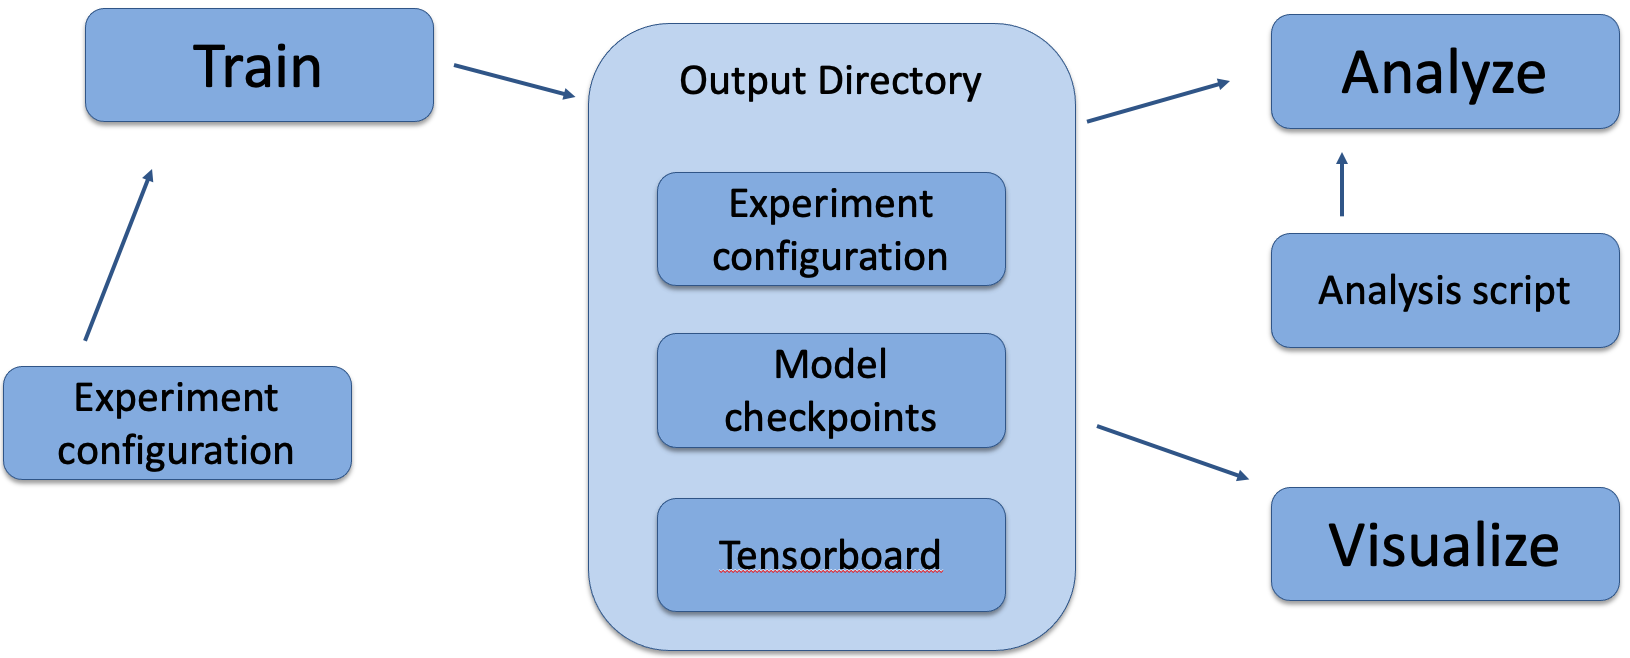
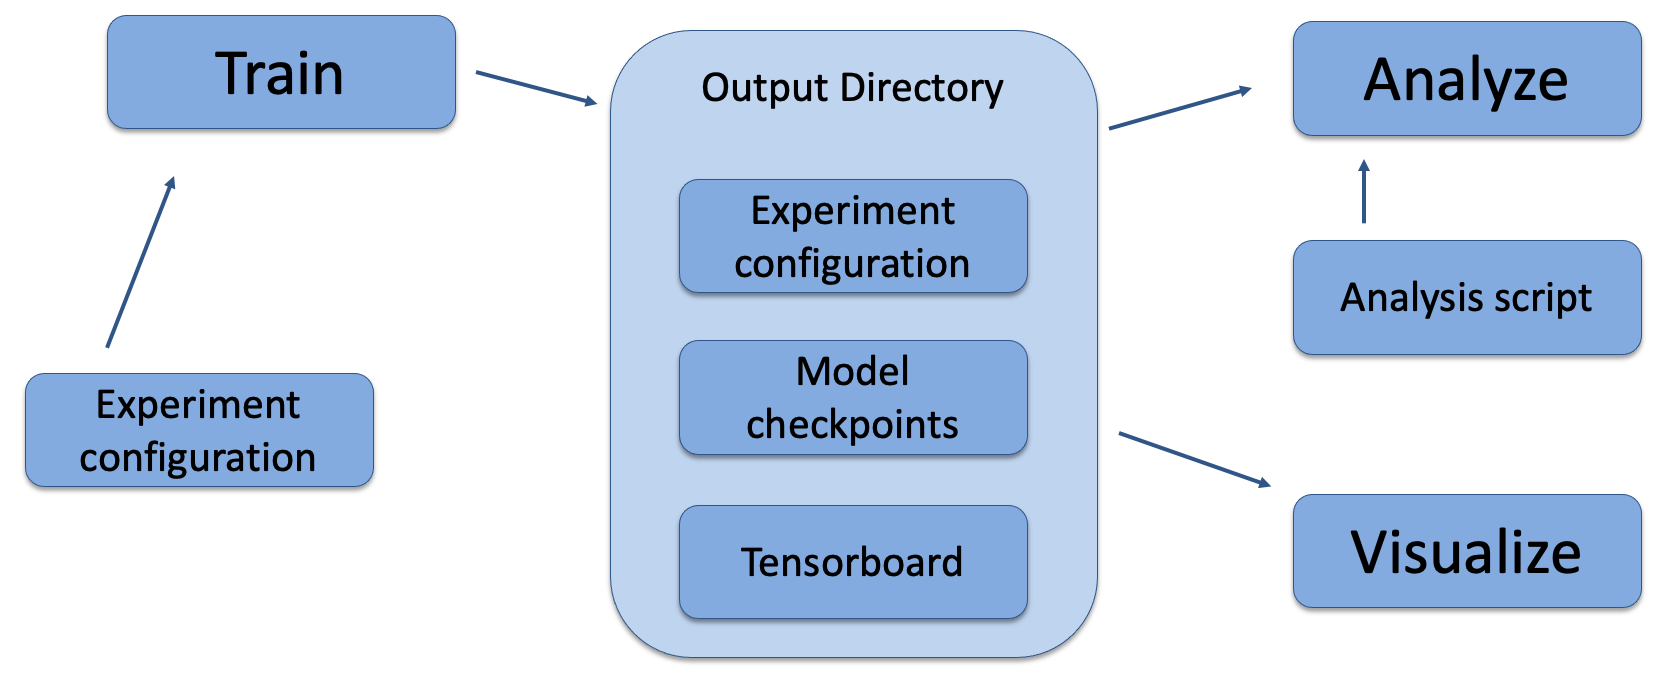
Cleaned up overview documentation

diff --git a/docs/src/overview.rst b/docs/src/overview.rst
@@ -3,26 +3,35 @@
 Design
 ======
 
-.. ATTENTION::
-   TODO: Include another figure under this paragraph that shows the multi-agent
-   environment cycle.
+A reinforcement learning experiment in Admiral contains two interacting components:
+a Simulation and a Trainer.
 
-A reinforcement learning experiment contains two main components: (1) a simulation
-environment and (2) a trainer, which contain policies that map observations
-to actions. These policies may be hard-coded by the researcher or trained
-by the RL algorithm. In Admiral, these two components are specified in a single
-Python configuration file. The components can be defined in-file or imported
-as modules.
+The Simulation contains agent(s) who can observe the state (or a substate) of the
+Simulation and whose actions affect the state of the simulation. The simulation is
+discrete in time, and at each time step agents can provide actions. The simulation
+also produces rewards for each agent that the Trainer can use to train optimal behaviors.
+The Agent-Simulation interaction produces state-action-reward tuples (SARs), which
+can be collected in *rollout fragments* and used to optimize agent behaviors. 
 
-Once these components are set up, they are passed as parameters to RLlib's
-tune command, which will launch the RLlib application and begin the training
+The Trainer contains policies that map agents' observations to actions. Policies
+are one-to-many with agents, meaning that there can be multiple agents using
+the same policy. Policies may be heuristic (i.e. coded by the researcher) or trainable
+by the RL algorithm.
+
+In Admiral, the Simulation and Trainer are specified in a single Python configuration
+file. Once these components are set up, they are passed as parameters to
+RLlib's tune command, which will launch the RLlib application and begin the training
 process. The training process will save checkpoints to an output directory,
-from which you can visualize and analyze results. The following diagram
+from which the user can visualize and analyze results. The following diagram
 demonstrates this workflow.
 
-.. image:: .images/workflow.png
-  :width: 800
-  :alt: Admiral Workflow
+.. figure:: .images/workflow.png
+   :width: 100 %
+   :alt: Admiral usage workflow
+
+   Admiral's usage workflow. An experiment configuration is used to train agents'
+   behaviors. The policies and environment are saved to an output directory. Behaviors can then
+   be analyzed or visualized from the output directory.
 
 
 Creating Agents and Environments
@@ -43,7 +52,7 @@ Agent
 First, we have :ref:`Agents <api_agent>`. An agent is an object with an observation and
 action space. Many practitioners may be accustomed to gym.Env's interface, which
 defines the observation and action space for the *environment*. However, in heterogeneous
-multi-agent settings, each *agent* can have different spaces; thus we assign these
+multiagent settings, each *agent* can have different spaces; thus we assign these
 spaces to the agents and not the environment.
 
 An agent can be created like so:
@@ -81,7 +90,7 @@ An Agent Based Simulation can be created and used like so:
    class MySim(AgentBasedSimulation):
        def __init__(self, agents=None, **kwargs):
            self.agents = agents
-           ... # Implement the ABS interface
+        ... # Implement the ABS interface
 
    # Create a dictionary of agents
    agents = {f'agent{i}': Agent(id=f'agent{i}', ...) for i in range(10)}
@@ -107,10 +116,10 @@ Simulation Managers
 
 The Agent Based Simulation interface does not specify an ordering for agents' interactions
 with the environment. This is left open to give our users maximal flexibility. However,
-in order to interace with RLlib's learning library, we provide :ref:`Simulation Managers <api_sim>`
-which specify the output from ``reset`` and ``step`` as RLlib expects it. Specifically,
-1. Agents that appear in the output dictionary (from reset or step) will provide
-actions at the next step, and
+in order to interace with RLlib's learning library, we provide a :ref:`Simulation Manager <api_sim>`
+which specifies the output from ``reset`` and ``step`` as RLlib expects it. Specifically,
+
+1. Agents that appear in the output dictionary will provide actions at the next step.
 2. Agents that are done on this step will not provide actions on the next step.
 
 Simulation managers are open-ended requiring only ``reset`` and ``step`` with output
@@ -143,29 +152,31 @@ Simluation Managers "wrap" environments, and they can be used like so:
 External Integration
 ````````````````````
 
-In order to train agents in a Simulation Manager in RLlib, we must wrap the simulation
+In order to train agents in a Simulation Manager using RLlib, we must wrap the simulation
 with either a :ref:`GymWrapper <api_gym_wrapper>` for single-agent simulations
 (i.e. only a single entry in the `agents` dict) or a
-:ref`MultiAgentWrapper <api_ma_wrapper>` for multiagent simulations.
+:ref:`MultiAgentWrapper <api_ma_wrapper>` for multiagent simulations.
 
 
 
 Training with an Experiment Configuration
 -----------------------------------------
 In order to run experiments, we must define a configuration file that
-specifies the environment and trainer parameters. Here is the configuration file
+specifies Simulation and Trainer parameters. Here is the configuration file
 from the :ref:`Corridor tutorial<tutorial_multi_corridor>` that demonstrates a
-simple corridor environment with multiple agents.
+simple corridor environment with multiple agents.   
 
 .. code-block:: python
 
-   # Import the AgentBasedSimulation MultiCorridor, the appropriate simulation
-   # manager, and the multi-agent wrapper needed to connect to RLlib's trainers
+   # Import the MultiCorridor ABS, a simulation manager, and the multiagent
+   # wrapper needed to connect to RLlib's trainers
    from admiral.envs.corridor import MultiCorridor
    from admiral.managers import TurnBasedManager
    from admiral.external import MultiAgentWrapper
    
-   # Create and wrap the environment.
+   # Create and wrap the environment
+   # NOTE: The agents in `MultiCorridor` are all homogeneous, so this simulation
+   # just creates and stores the agents itself.
    env = MultiAgentWrapper(AllStepManager(MultiCorridor()))
    
    # Register the environment with RLlib
@@ -173,7 +184,7 @@ simple corridor environment with multiple agents.
    from ray.tune.registry import register_env
    register_env(env_name, lambda env_config: env)
    
-   # Set up the agents' policy. In this experiment, all agents are homogeneous,
+   # Set up the policies. In this experiment, all agents are homogeneous,
    # so we just use a single shared policy.
    ref_agent = env.unwrapped.agents['agent0']
    policies = {
@@ -214,7 +225,7 @@ simple corridor environment with multiple agents.
    }
    
 .. NOTE::
-   This example has ``num_workers`` set to 7 for a computer with 7 CPU's.
+   This example has ``num_workers`` set to 7 for a computer with 8 CPU's.
    You may need to adjust this for your computer to be `<cpu count> - 1`.
 
 
@@ -229,7 +240,7 @@ in real time in tensorboard with ``tensorboard --logdir ~/admiral_results``.
 
 Visualizing
 -----------
-We can vizualize the agents' learned behavior with the ``visualize`` command, which
+We can visualize the agents' learned behavior with the ``visualize`` command, which
 takes as argument the output directory from the training session stored in
 ``~/admiral_results``. For example, the command
 
@@ -239,7 +250,7 @@ takes as argument the output directory from the training session stored in
 
 will load the experiment (notice that the directory name is the experiment
 name from the configuration file appended with a timestamp) and display an animation
-of 5 episodes. The ``--record`` flag will save the animations as ``.mp4`` videos in
+of 5 episodes. The ``--record`` flag will save the animations as `.mp4` videos in
 the training directory.
 
 
@@ -274,7 +285,7 @@ Running at scale with HPC
 -------------------------
 
 Admiral also supports some functionality for training at scale. See the
-`magpie tutorial <tutorial_magpie>`, which provides a walkthrough
+:ref:`magpie tutorial <tutorial_magpie>`, which provides a walkthrough
 for launching a training experiment on multiple compute nodes with slurm.
 
 
